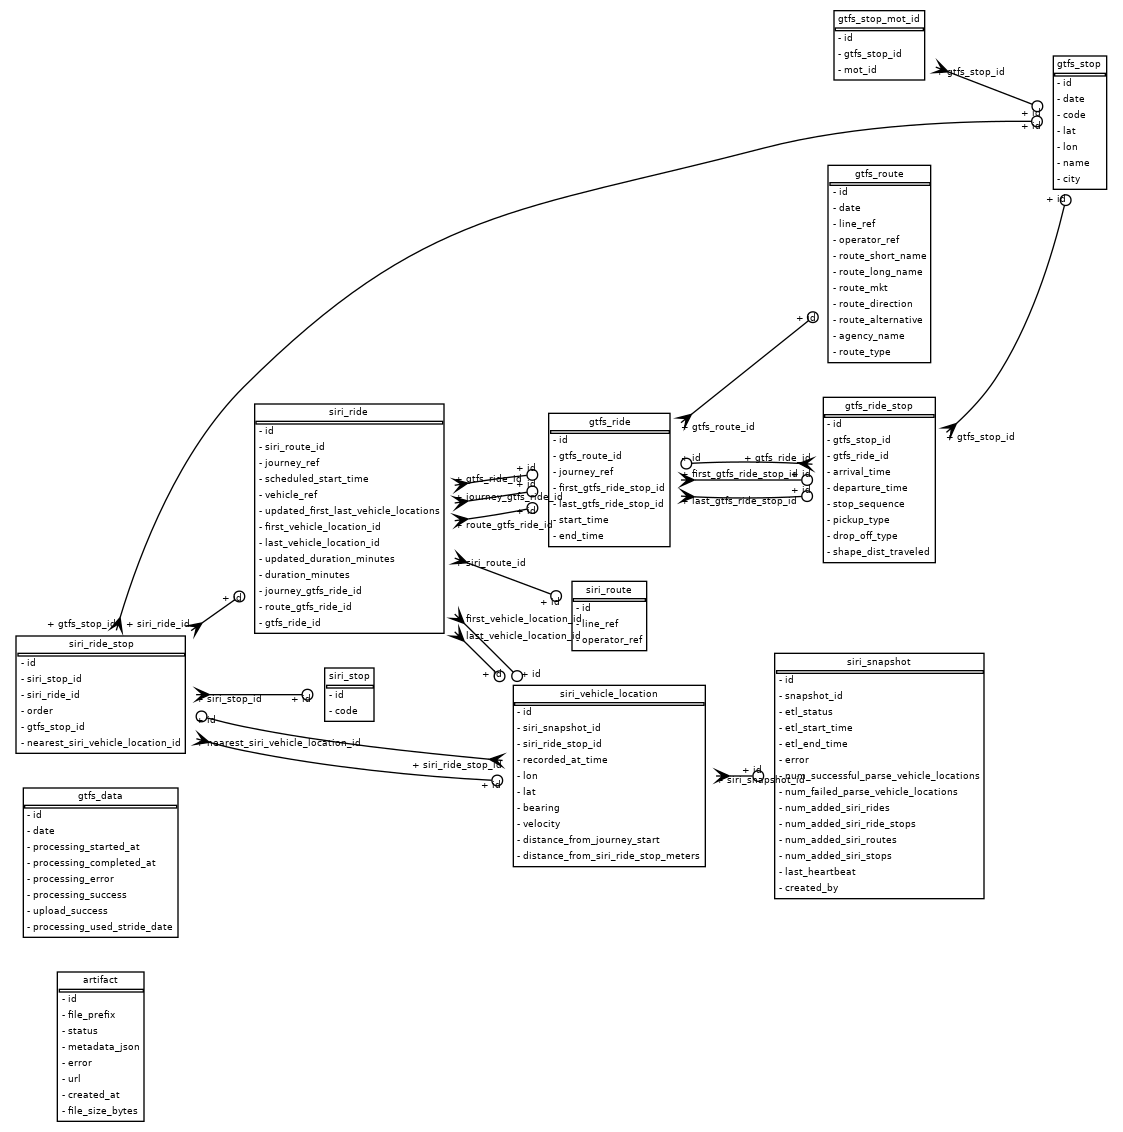
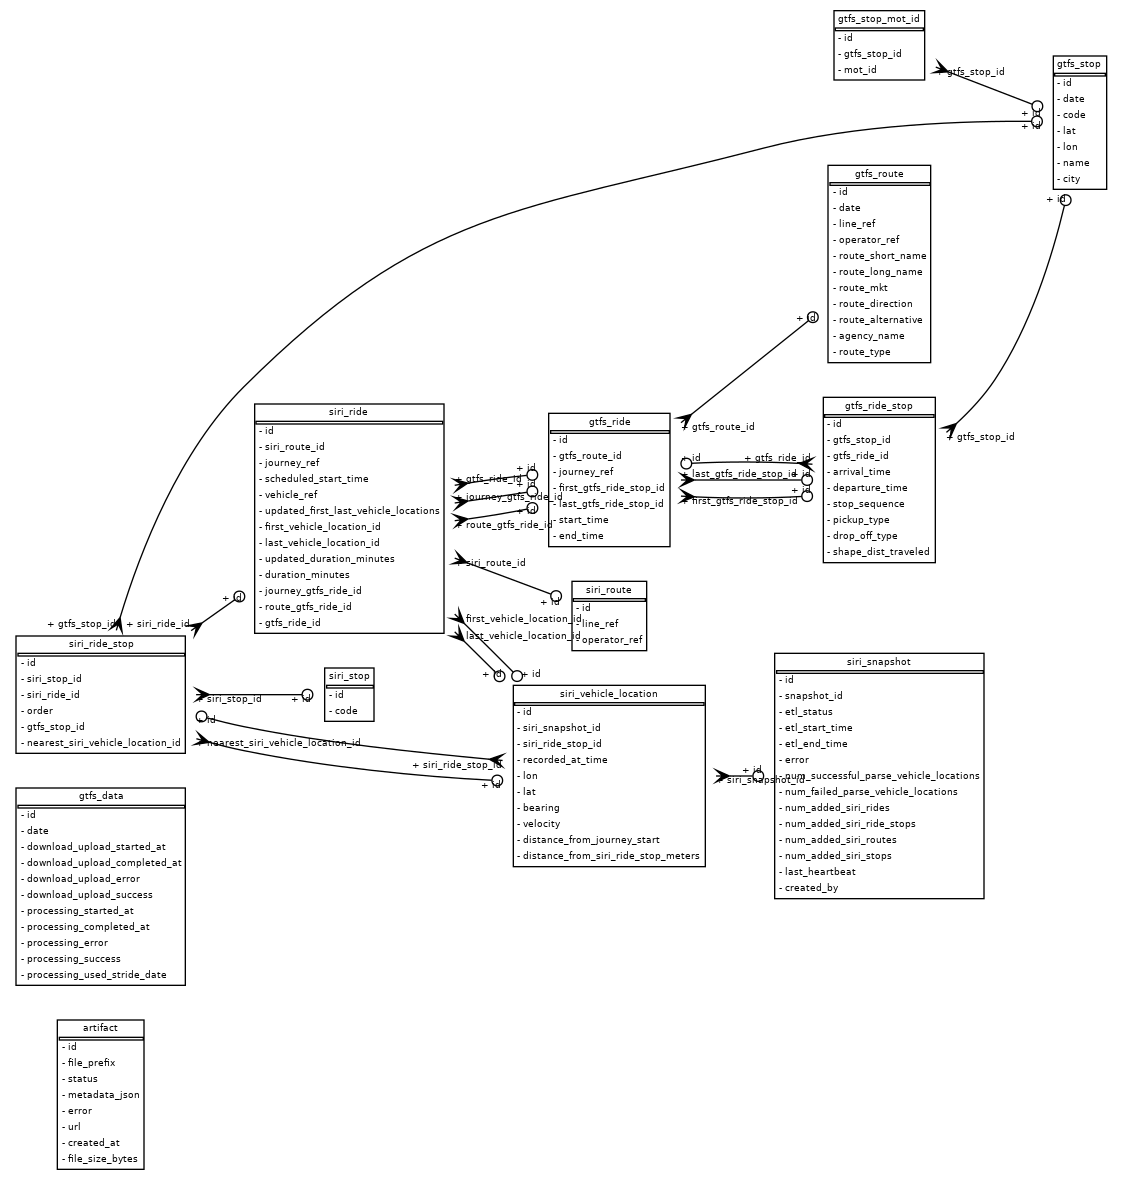
automatic update of the data model documentation

diff --git a/DATA_MODEL.md b/DATA_MODEL.md
@@ -31,6 +31,14 @@ Task and processing status relating to this day's GTFS data.
 
 #### gtfs_data.date
 
+#### gtfs_data.download_upload_started_at
+
+#### gtfs_data.download_upload_completed_at
+
+#### gtfs_data.download_upload_error
+
+#### gtfs_data.download_upload_success
+
 #### gtfs_data.processing_started_at
 
 #### gtfs_data.processing_completed_at
@@ -38,8 +46,6 @@ Task and processing status relating to this day's GTFS data.
 #### gtfs_data.processing_error
 
 #### gtfs_data.processing_success
-
-#### gtfs_data.upload_success
 
 #### gtfs_data.processing_used_stride_date
 
